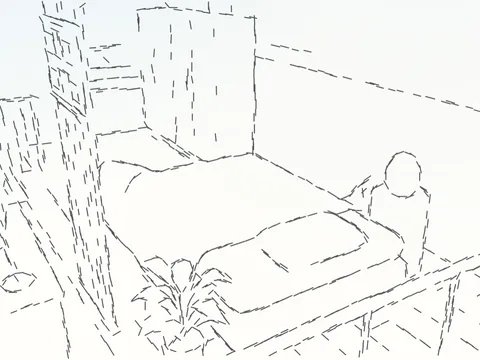
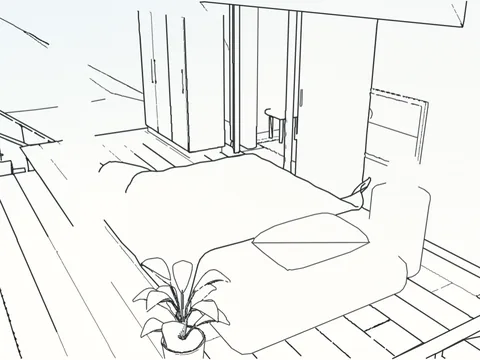
docs: Record the pen-line loading sketch and refresh its still
Update both loading-sketch techniques to the traced pen lines, their
plan gating and the functions that implement them, and add the
2026-10-25 move in Sirui's words. The graphics-lab still now waits for
the pen's own account (the bedroom, half drawn) instead of a fixed
delay, which honest gating would miss; only the sketch tile of the card
teaser changes.

diff --git a/bin/make_graphics_lab_thumbnails.py b/bin/make_graphics_lab_thumbnails.py
@@ -43,7 +43,7 @@ FRAMES = {
     "hair": STILLS / "hair-b.png",
     "gym-lifts": STILLS / "gym-b.png",
     "wildlife": STILLS / "wildlife-cormorants-b.png",
-    "loading-sketch": STILLS / "loading-sketch-bedroom-4600.png",
+    "loading-sketch": STILLS / "loading-sketch-bedroom-drawn.png",
     "camera-field": STILLS / "camera-field-golden.png",
     "hinterland": STILLS / "hinterland-golden.png",
     "gliders": STILLS / "gliders-golden.png",
